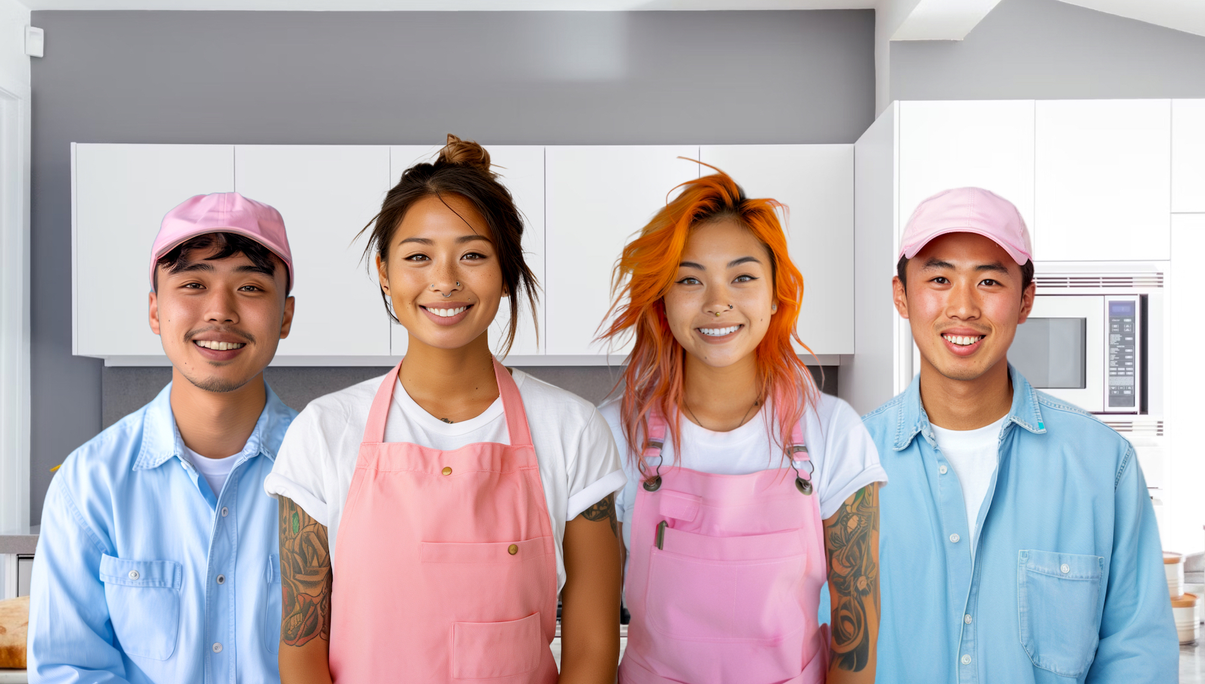
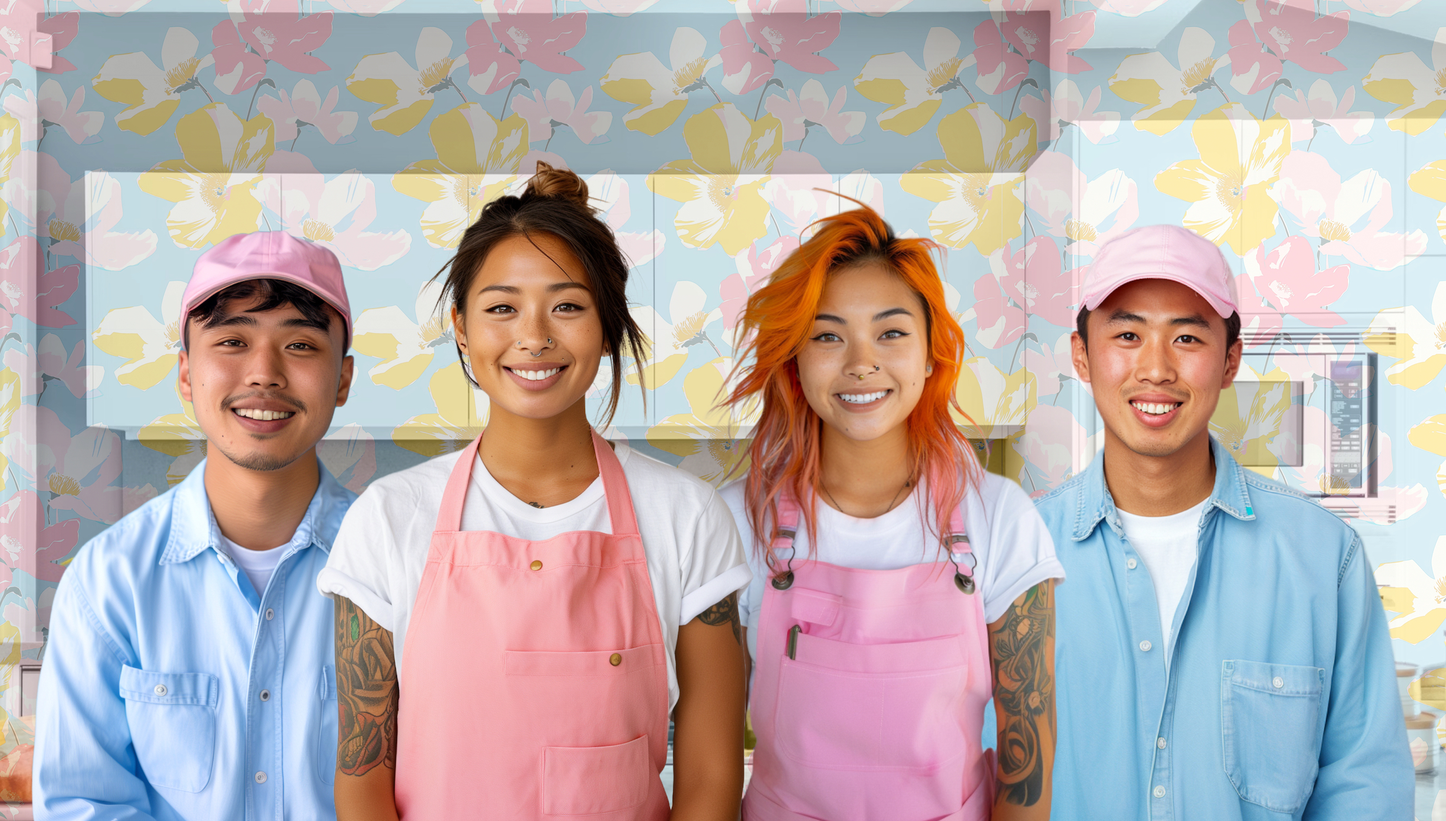
add floral

Changed region(s): [[0.0, 0.0, 1.0, 1.0], [0.496, 0.8627, 0.527, 0.9243]]

diff --git a/app/page.tsx b/app/page.tsx
@@ -148,9 +148,11 @@ export default function Home() {
         {/* </video> */}
         <div className="caption h-full text-white">
           <div className="h-full  bg-black bg-opacity-[0%] px-5 md:px-10 lg:px-20 flex flex-col justify-end pb-10">
-            <div className=" w-fit bg-[#F9FAFB] shadow-lg rounded-2xl p-4 px-8 pb-8 text-[#111]">
-              <div className="text-[40px] font-bold">
-                Professional Cleaning Solutions
+            <div className=" w-fit bg-white shadow-lg rounded-2xl p-4 px-8 pb-8 text-[#111]">
+              <div>
+                <h1>
+                  Professional Cleaning Solutions
+                </h1>
               </div>
               <div>
                 Experience top-notch dusting, sanitizing, and vacuuming services with our professional cleaning team.
@@ -168,13 +170,15 @@ export default function Home() {
 
 
       {/* <iframe width="560" height="315" src="https://www.youtube.com/embed/biQQXbZNau4?si=9b9LlZrE8I34tgDp&amp;controls=0" title="YouTube video player" frameborder="0" allow="accelerometer; autoplay; clipboard-write; encrypted-media; gyroscope; picture-in-picture; web-share" referrerpolicy="strict-origin-when-cross-origin" allowfullscreen></iframe> */}
-      <div id="about-us" className="grid grid-cols-6 my-20 gap-10 py-[50px] px-5 md:px-10 lg:px-20">
+      <div id="about-us" className="grid grid-cols-6 gap-10 py-[120px] px-5 md:px-10 lg:px-20">
         <div id="about-us-mobile" className="col-span-6 pt-5 lg:col-span-2 justify-center flex">
           <Image src="/thumb-04.png" className="rounded-xl w-full" alt="logo" width={580} height={10}></Image>
         </div>
         <div className="col-span-6 lg:col-span-4">
-          <div className="text-[40px] font-bold mb-8">
-            Spotless Excellence
+          <div className="mb-8">
+            <h1>
+              Spotless Excellence
+            </h1>
           </div>
           <div>
             Our cleaning services are designed to meet the highest standards of hygiene and cleanliness. We understand that every space has unique cleaning needs, and we tailor our services to meet those needs.
@@ -186,9 +190,11 @@ export default function Home() {
         </div>
       </div>
 
-      <div id="our-services" className="bg-[#fff5fe] bg-pattern py-[75px] pb-10 lg:pt-10 lg:pb-20 px-5 md:px-10 lg:px-[150px] flex flex-col">
-        <div id="our-services-mobile" className="text-[40px] text-center pt-10 font-bold mb-4">
-          Our Services
+      <div id="our-services" className="bg-[#fff5fe] bg-repeat-custom py-[75px] pb-10 lg:pt-10 lg:pb-20 px-5 md:px-10 lg:px-[150px] flex flex-col">
+        <div id="our-services-mobile" className="text-center pt-10 mb-4">
+          <h1>
+            Our Services
+          </h1>
         </div>
         <div className="flex justify-center mb-10">
           <div className="flex max-w-[600px]  text-center">
@@ -226,8 +232,10 @@ export default function Home() {
           <div className="uppercase font-bold text-[#C41C94]">
             Testimonials
           </div>
-          <div className="text-[40px] text-center font-bold mb-10">
-            Voices of Satisfied Customers
+          <div className="text-center mb-10">
+            <h1>
+              Voices of Satisfied Customers
+            </h1>
           </div>
           <div className="grid md:grid-cols-3 gap-10">
             <div>
@@ -268,7 +276,7 @@ export default function Home() {
         </div>
       </div>
 
-      <div id="location" className="bg-pattern  text-center bg-[#fff5fe] gap-20 flex flex-col md:flex-row py-[120px] justify-center">
+      <div id="location" className="bg-repeat-custom text-center bg-[#fff5fe] gap-20 flex flex-col md:flex-row py-[120px] justify-center">
         <div className="w-full md:w-1/2 flex justify-center md:justify-end">
           <div id="location-mobile" className="rounded-2xl max-w-[600px] overflow-hidden shadow-xl border">
             <iframe src="https://www.google.com/maps/embed?pb=!1m18!1m12!1m3!1d100878.24803177382!2d-122.39450528438896!3d37.80308439911126!2m3!1f0!2f0!3f0!3m2!1i1024!2i768!4f13.1!3m3!1m2!1s0x808f9b5ea6210a07%3A0xa2950f4ff149c910!2sSan%20Francisco%20Bay!5e0!3m2!1sen!2sus!4v1711602621487!5m2!1sen!2sus" width={450} className=" md:max-w-[450px] md:max-h-[450px]" height={450} loading="lazy"></iframe>
@@ -276,7 +284,11 @@ export default function Home() {
         </div>
         <div className="w-full md:w-1/2 flex justify-center pt-0 p-10 md:p-0 md:justify-left text-left">
           <div className="max-w-[500px] leading-7">
-            <span className="text-4xl font-bold">Find Us Here! </span>
+            <span>
+              <h1>
+                Find Us Here!
+              </h1>
+            </span>
             <br /><br />
             Elevate your home&apos;s cleanliness with our specialized cleaning services tailored for the vibrant San Francisco Bay Area. Our experienced team employs eco-friendly products and meticulous techniques to ensure your space shines with pristine perfection. Let us handle the cleaning, so you can fully embrace the beauty and energy of Bay Area living!</div>
         </div>
@@ -290,9 +302,11 @@ export default function Home() {
         <span className="text-lg text-gray-700"> Lorem ipsum, dolor sit amet consectetur adipisicing elit. Explicabo earum quos voluptatum tempore quis exercitationem, ad officiis dolorum temporibus veritatis quod itaque repellendus molestiae culpa laboriosam, cupiditate voluptate. Eius, placeat! </span>
       </div> */}
 
-      <div className="text-center bg-white flex-col flex mb-10 px-5 pt-10 pb-20 justify-center">
-        <div id="gallery" className="text-[40px] text-center pt-10 font-bold mb-4">
-          Photo Gallery
+      <div className="text-center bg-white flex-col flex px-5 pt-10 pb-[120px] justify-center">
+        <div id="gallery" className="text-center pt-10 mb-4">
+          <h1>
+            Photo Gallery
+          </h1>
         </div>
         <div className="flex justify-center mb-10">
           <div className="flex max-w-[750px] px-10 text-center">
@@ -340,17 +354,19 @@ export default function Home() {
         </div> */}
       </div>
 
-      <div className="text-center bg-[#e6f6ff] bg-pattern flex px-5 pt-20 pb-20 justify-center">
+      <div className="text-center bg-[#e6f6ff] bg-repeat-custom flex px-5 pt-20 pb-20 justify-center">
         <div id="contact-us" className="py-5">
           <div className="p-5 md:p-20 md:py-[70px] bg-[#ffeffd] shadow-lg rounded-2xl max-w-[800px] lg:max-w-[1200px]">
-            <div className="text-[40px] text-left font-bold p-0 mb-2">
-              Reach Out
-              <span className="md:hidden">
-                !
-              </span>
-              <span className="hidden md:inline pl-2">
-                to Us for Exceptional Cleaning Services
-              </span>
+            <div className="text-left p-0 mb-2">
+              <h1>
+                Reach Out
+                <span className="md:hidden">
+                  !
+                </span>
+                <span className="hidden md:inline pl-2">
+                  to Us for Exceptional Cleaning Services
+                </span>
+              </h1>
             </div>
             <div className="text-left text-md font-light">
               Don&apos;t hesitate to contact us for top-notch cleaning services.

diff --git a/app/globals.css b/app/globals.css
@@ -8,6 +8,11 @@ html {
   scroll-behavior: smooth !important;
 }
 
+h1 {
+  font-size: 40px;
+  font-weight: bold;
+}
+
 .video-container {
   height: 600px;
   width: 100%;
@@ -31,4 +36,9 @@ position: relative;
 .bg-pattern {
   background-color: #f7fcff;
   background: linear-gradient(135deg, #eff9ff55 25%, transparent 25%) -39px 0/ 78px 78px, linear-gradient(225deg, #eff9ff 25%, transparent 25%) -39px 0/ 78px 78px, linear-gradient(315deg, #eff9ff55 25%, transparent 25%) 0px 0/ 78px 78px, linear-gradient(45deg, #eff9ff 25%, #f7fcff 25%) 0px 0/ 78px 78px;
+}
+
+.bg-repeat-custom {
+  background: url('/bg-repeat.jpg');
+  background-repeat: repeat;
 }
